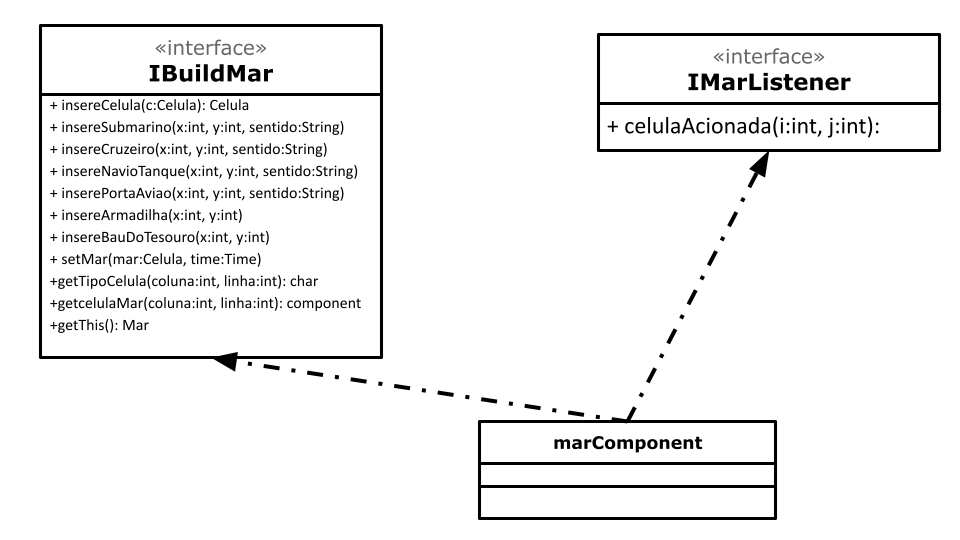
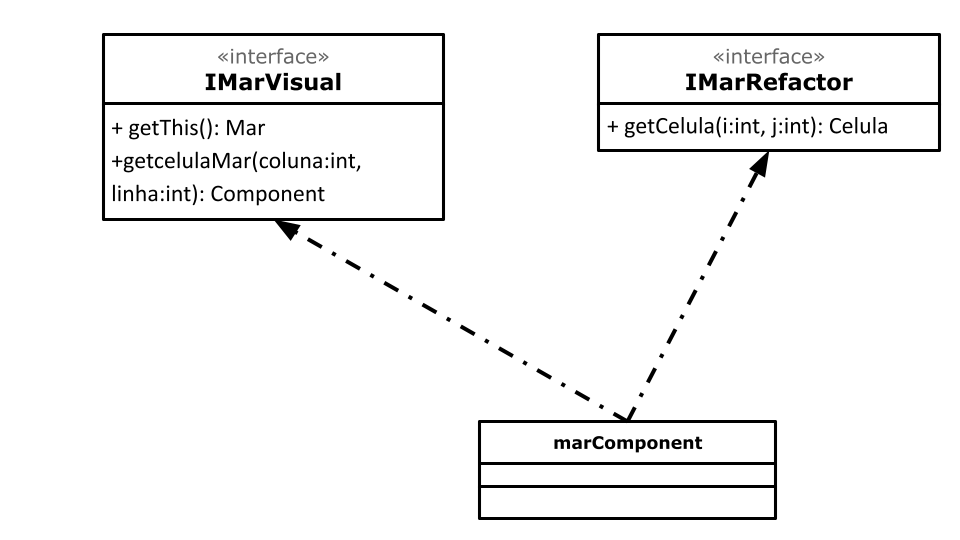
no message

diff --git a/BomberShip/src/src/marComponent/Mar/IMarRefactor.java b/BomberShip/src/src/marComponent/Mar/IMarRefactor.java
@@ -1,18 +1,7 @@
 package marComponent.Mar;
 
-import controleComponent.Time;
 import marComponent.Celula.Celula;
 
 public interface IMarRefactor {
-	public Celula insereCelula(Celula c) throws Exception;
-	public boolean insereSubmarino(int x, int y, String sentido) throws Exception;
-	public boolean insereCruzeiro(int x, int y, String sentido) throws Exception;
-	public boolean insereNavioTanque(int x, int y, String sentido) throws Exception;
-	public boolean inserePortaAviao(int x, int y, String sentido) throws Exception;
-	public boolean insereArmadilha(int x, int y) throws Exception;
-	public boolean insereBauDoTesouro(int x, int y) throws Exception;
-	public void setMar(Celula[][] mar, Time time);
-	public Celula[][] getMar();
 	public Celula getCelula(int i, int j);
-	public Mar getThis();
 }

diff --git a/BomberShip/src/src/marComponent/Celula/Celula.java b/BomberShip/src/src/marComponent/Celula/Celula.java
@@ -13,7 +13,7 @@ import controleComponent.Time;
 import controleComponent.outController;
 import marComponent.Pecas.Navio;
 
-public class Celula extends JButton implements ICelulaPropriedades, ICelulaRefactor, ActionListener {
+public class Celula extends JButton implements ICelulaRefactor, ActionListener {
 
 	private static final long serialVersionUID = -4497235678407832554L;
 	protected ImageIcon imagem;

diff --git a/BomberShip/src/src/montadorComponent/Montador.java b/BomberShip/src/src/montadorComponent/Montador.java
@@ -4,6 +4,7 @@ import java.io.File;
 import java.net.URISyntaxException;
 import java.net.URL;
 import java.nio.file.Paths;
+
 import conexaoComponent.Conexao;
 import controleComponent.*;
 import marComponent.Celula.*;
